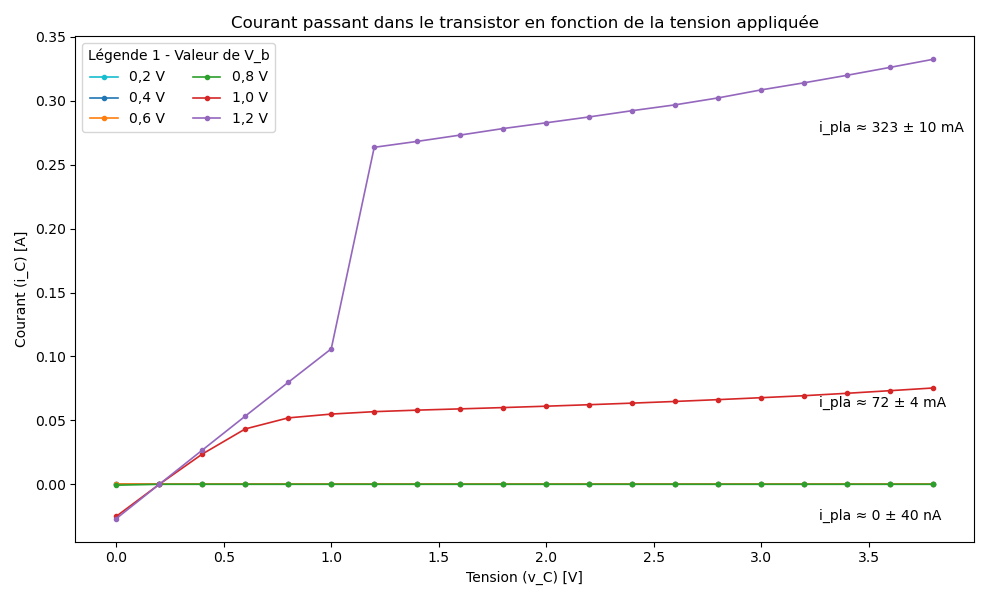
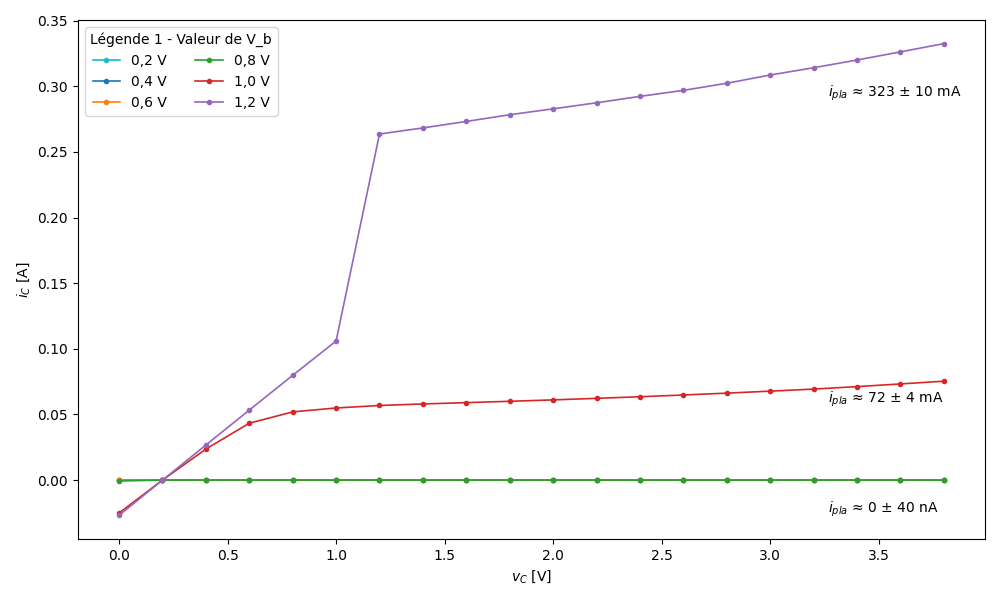
Ajustement des graphiques

diff --git a/Labo3/Programmation/Graphique_transistor.py b/Labo3/Programmation/Graphique_transistor.py
@@ -130,21 +130,26 @@ for i, (key, sub_raw) in enumerate(sorted(groups.items(), key=lambda kv: kv[0]))
 
     if abs(m) < ZERO_THRESH:
         if not zero_done:
-            plt.annotate(f"i_pla ≈ {fmt_val_unc(0.0, hw)}",
+            plt.annotate(r"$i_{pla}$ " f"≈ {fmt_val_unc(0.0, hw)}",
                          xy=(x_annot, 0.0),
                          xytext=(x_annot - 2.5*dx, 0.0 - 0.75*dy),
                          ha="left", va="bottom", color="black")
             zero_done = True
-    else:
-        plt.annotate(f"i_pla ≈ {fmt_val_unc(m, hw)}",
+    elif int(fmt_val_unc(m, hw).split("±")[0]) > 100:
+        plt.annotate(r"$i_{pla}$ " + f"≈ {fmt_val_unc(m, hw)}",
                      xy=(x_annot, m),
-                     xytext=(x_annot - 2.5*dx, m - 3.5*dy),
+                     xytext=(x_annot - 2.5*dx, m - 2.5*dy),
+                     ha="left", va="bottom", color="black")
+    else:
+        plt.annotate(r"$i_{pla}$ " + f"≈ {fmt_val_unc(m, hw)}",
+                     xy=(x_annot, m),
+                     xytext=(x_annot - 2.5*dx, m - 4.5*dy),
                      ha="left", va="bottom", color="black")
 
-plt.xlabel("Tension (v_C) [V]")
-plt.ylabel("Courant (i_C) [A]")
+plt.xlabel(r"$v_C$ [V]")
+plt.ylabel(r"$i_C$ [A]")
 # plt.title("Courant passant dans le transistor en fonction de la tension appliquée")
 plt.legend(title="Légende 1 - Valeur de V_b", ncol=2, frameon=True)
 plt.tight_layout()
 plt.savefig(OUT_PNG)
-plt.show()
+# plt.show()

diff --git a/Labo3/Programmation/Resistance_Shockley.py b/Labo3/Programmation/Resistance_Shockley.py
@@ -77,12 +77,12 @@ pady = 0.05*(df["I"].max() - df["I"].min() or 1.0)
 plt.xlim(df["V"].min()-padx, df["V"].max()+padx)
 plt.ylim(df["I"].min()-pady, df["I"].max()+pady)
 
-plt.xlabel("Tension V (V)")
-plt.ylabel("Courant I (A)")
+plt.xlabel("Tension [V]")
+plt.ylabel("Courant [A]")
 # plt.title("Courant i-v de la diode standard comparée au modèle de Shockley")
 plt.legend(title = "Légende 1 - Courbes étudiées")
 plt.tight_layout()
 plt.savefig(OUT_PNG)
-plt.show()
+# plt.show()
 
 print(f"Paramètres ajustés : i0 = {i0:.3e} A, v0 = {v0:.4f} V (n·V_T)")
